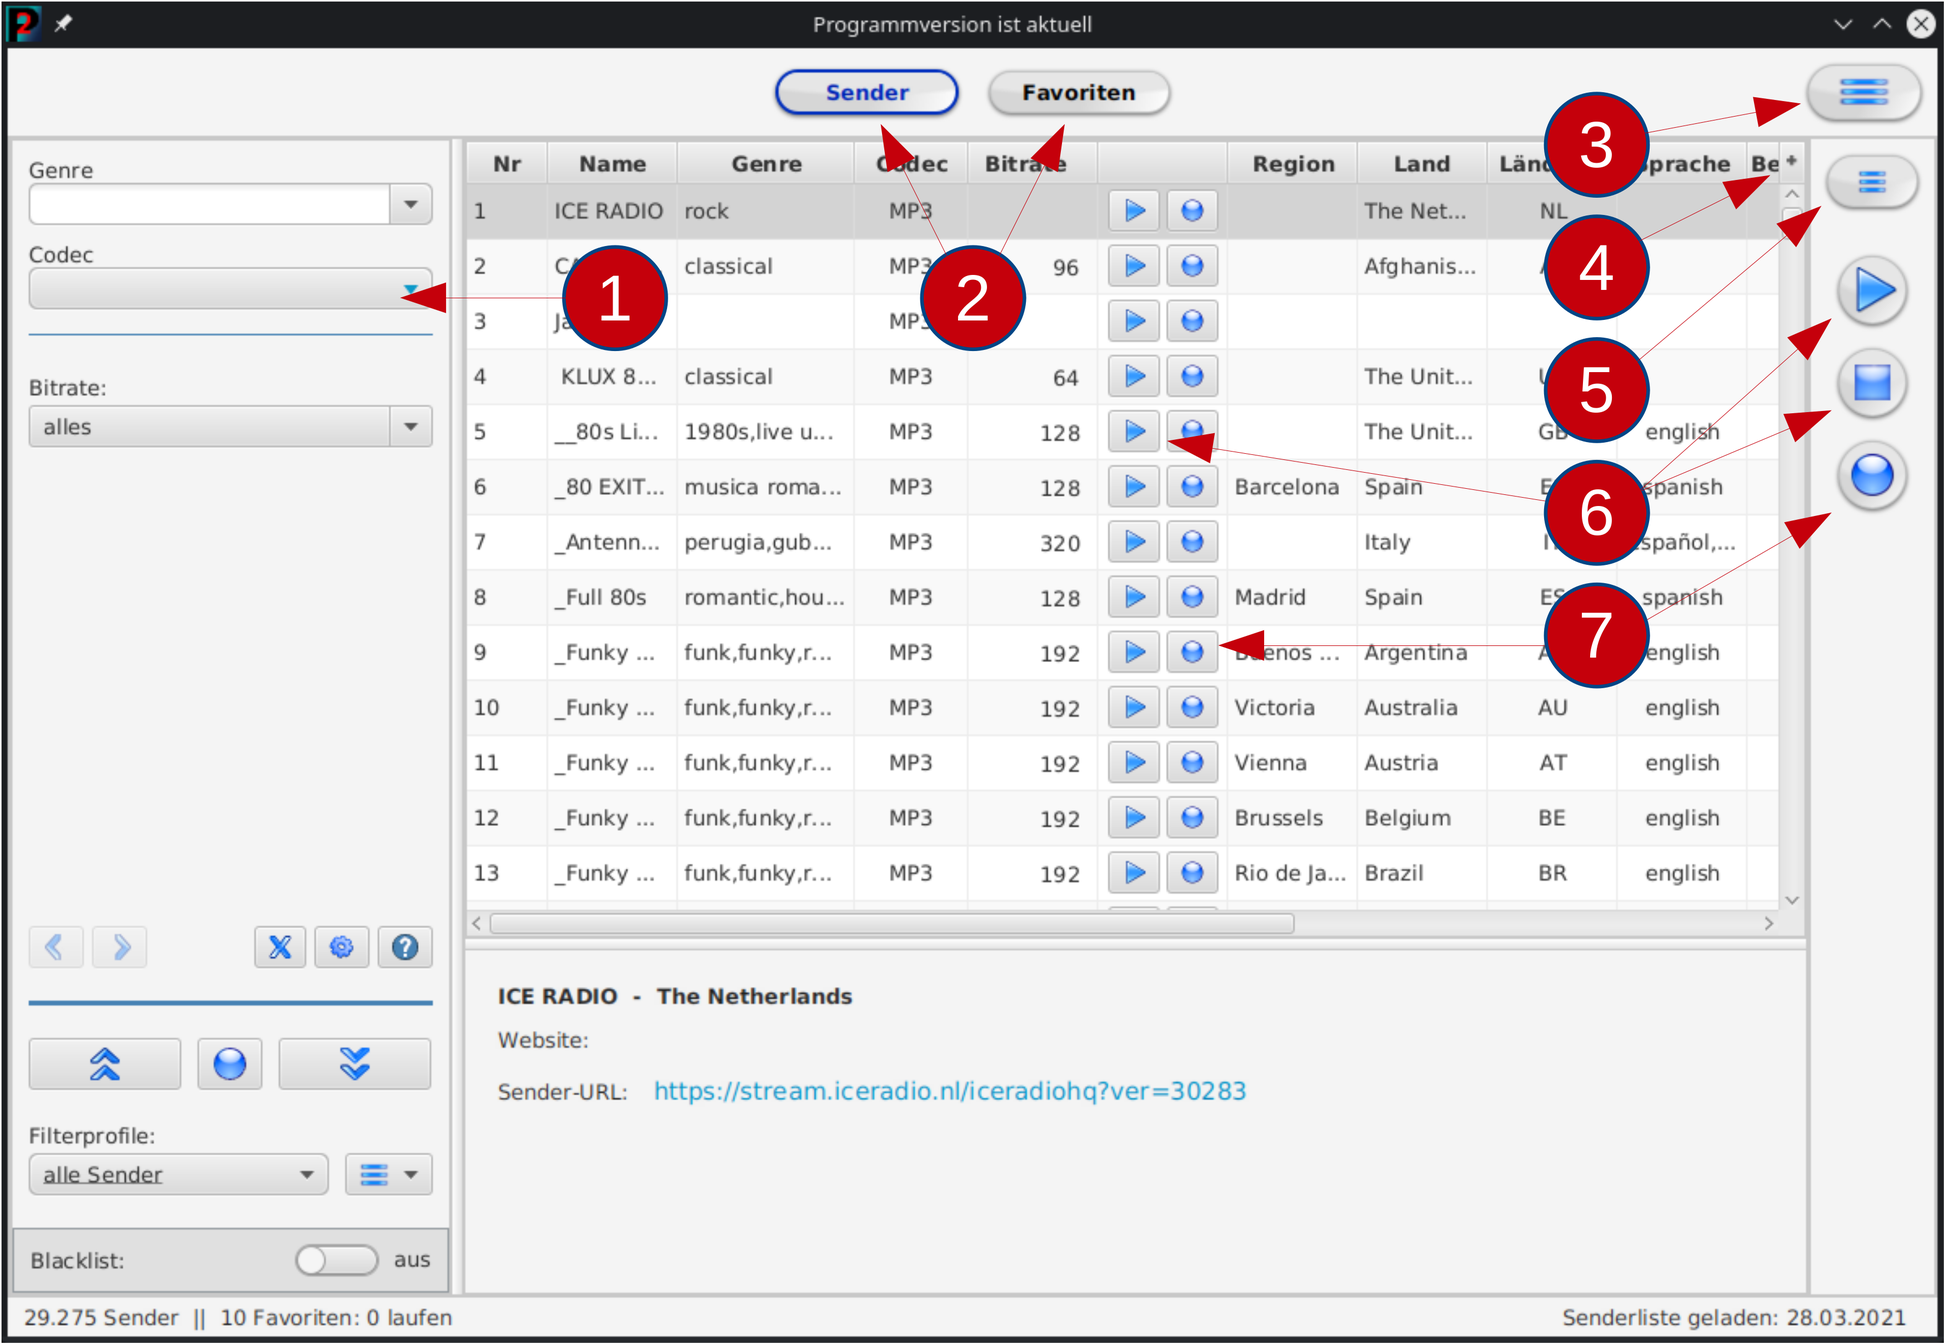
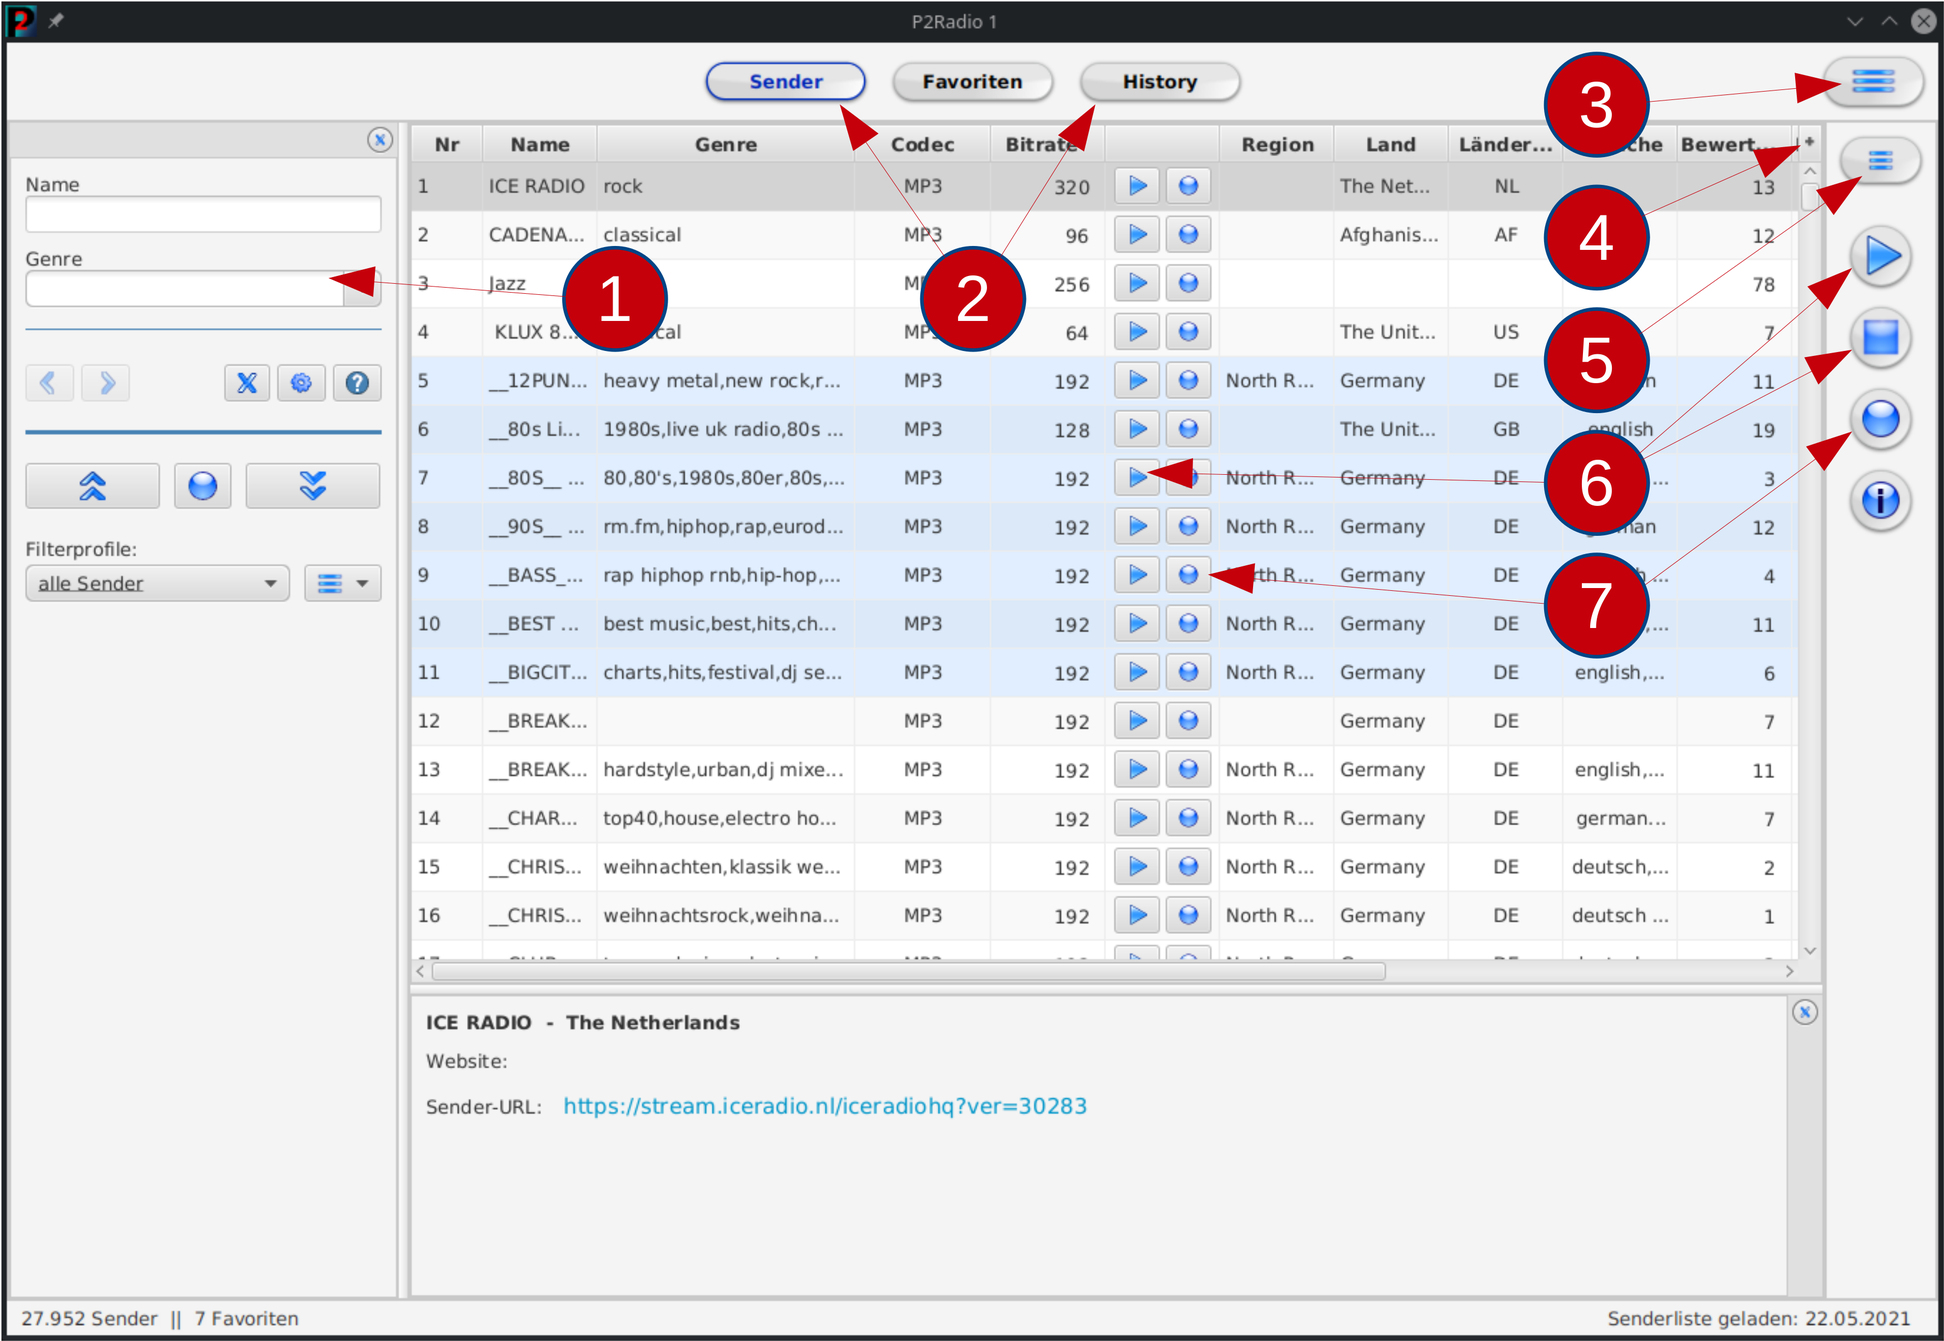
cleanUp

Changed region(s): [[0.0, 0.0, 1.0, 1.0], [0.0, 0.6832, 0.0311, 0.7143]]

diff --git a/src/main/java/de/p2tools/p2radio/gui/startDialog/StartDialogController.java b/src/main/java/de/p2tools/p2radio/gui/startDialog/StartDialogController.java
@@ -41,22 +41,25 @@ public class StartDialogController extends PDialogExtra {
     private Button btnOk, btnCancel;
     private Button btnPrev, btnNext;
     private Button btnStart1 = new Button(STR_START_1), btnStart2 = new Button(STR_START_2),
-            btnConfig = new Button(STR_CONFIG);
+            btnStart3 = new Button(STR_START_3), btnConfig = new Button(STR_CONFIG);
 
     private static final String STR_START_1 = "Infos";
     private static final String STR_START_2 = "Infos";
+    private static final String STR_START_3 = "Infos";
     private static final String STR_CONFIG = "Einstellungen";
 
-    private enum State {START_1, START_2, CONFIG}
+    private enum State {START_1, START_2, START_3, CONFIG}
 
     private State aktState = State.START_1;
 
     private TitledPane tStart1;
     private TitledPane tStart2;
+    private TitledPane tStart3;
     private TitledPane tConfig;
 
     private StartPane startPane1;
     private StartPane startPane2;
+    private StartPane startPane3;
     private ConfigPane configPane;
 
     private final ProgData progData;
@@ -81,6 +84,7 @@ public class StartDialogController extends PDialogExtra {
         this.ok = ok;
         startPane1.close();
         startPane2.close();
+        startPane3.close();
         configPane.close();
         super.close();
     }
@@ -91,7 +95,7 @@ public class StartDialogController extends PDialogExtra {
 
     private void initTopButton() {
         getvBoxCont().getChildren().add(tilePane);
-        tilePane.getChildren().addAll(btnStart1, btnStart2, btnConfig);
+        tilePane.getChildren().addAll(btnStart1, btnStart2, btnStart3, btnConfig);
         tilePane.setAlignment(Pos.CENTER);
         tilePane.setPadding(new Insets(10, 10, 20, 10));
         tilePane.setHgap(10);
@@ -99,6 +103,7 @@ public class StartDialogController extends PDialogExtra {
 
         setButton(btnStart1, State.START_1);
         setButton(btnStart2, State.START_2);
+        setButton(btnStart3, State.START_3);
         setButton(btnConfig, State.CONFIG);
     }
 
@@ -128,13 +133,19 @@ public class StartDialogController extends PDialogExtra {
         tStart2.setMaxHeight(Double.MAX_VALUE);
         tStart2.setCollapsible(false);
 
+        //startPane 3
+        startPane3 = new StartPane(getStage());
+        tStart3 = startPane3.makeStart3();
+        tStart3.setMaxHeight(Double.MAX_VALUE);
+        tStart3.setCollapsible(false);
+
         //updatePane
         configPane = new ConfigPane(getStage());
         tConfig = configPane.makeStart();
         tConfig.setMaxHeight(Double.MAX_VALUE);
         tConfig.setCollapsible(false);
 
-        stackpane.getChildren().addAll(tStart1, tStart2, tConfig);
+        stackpane.getChildren().addAll(tStart1, tStart2, tStart3, tConfig);
     }
 
     private void initButton() {
@@ -154,6 +165,9 @@ public class StartDialogController extends PDialogExtra {
                     aktState = State.START_2;
                     break;
                 case START_2:
+                    aktState = State.START_3;
+                    break;
+                case START_3:
                     aktState = State.CONFIG;
                     break;
                 case CONFIG:
@@ -169,8 +183,11 @@ public class StartDialogController extends PDialogExtra {
                 case START_2:
                     aktState = State.START_1;
                     break;
-                case CONFIG:
+                case START_3:
                     aktState = State.START_2;
+                    break;
+                case CONFIG:
+                    aktState = State.START_3;
                     break;
             }
             selectActPane();
@@ -203,6 +220,12 @@ public class StartDialogController extends PDialogExtra {
                 tStart2.toFront();
                 setButtonStyle(btnStart2);
                 break;
+            case START_3:
+                btnPrev.setDisable(false);
+                btnNext.setDisable(false);
+                tStart3.toFront();
+                setButtonStyle(btnStart3);
+                break;
             case CONFIG:
                 btnPrev.setDisable(false);
                 btnNext.setDisable(true);
@@ -218,6 +241,7 @@ public class StartDialogController extends PDialogExtra {
     private void setButtonStyle(Button btnSel) {
         btnStart1.getStyleClass().retainAll("btnStartDialog");
         btnStart2.getStyleClass().retainAll("btnStartDialog");
+        btnStart3.getStyleClass().retainAll("btnStartDialog");
         btnConfig.getStyleClass().retainAll("btnStartDialog");
         btnSel.getStyleClass().add("btnStartDialogSel");
     }
@@ -225,6 +249,7 @@ public class StartDialogController extends PDialogExtra {
     private void initTooltip() {
         btnStart1.setTooltip(new Tooltip("Infos über das Programm"));
         btnStart2.setTooltip(new Tooltip("Infos über das Programm"));
+        btnStart3.setTooltip(new Tooltip("Infos über das Programm"));
         btnConfig.setTooltip(new Tooltip("Einstellungen des Programms?"));
 
         btnOk.setTooltip(new Tooltip("Programm mit den gewählten Einstellungen starten"));

diff --git a/src/main/java/de/p2tools/p2radio/gui/configDialog/ConfigPaneController.java b/src/main/java/de/p2tools/p2radio/gui/configDialog/ConfigPaneController.java
@@ -62,13 +62,11 @@ public class ConfigPaneController extends PAccordionPane {
     StringProperty propUrl = ProgConfig.SYSTEM_PROG_OPEN_URL;
     BooleanProperty propLog = ProgConfig.SYSTEM_LOG_ON;
     StringProperty propLogDir = ProgConfig.SYSTEM_LOG_DIR;
-    BooleanProperty propSizeSender = ProgConfig.SYSTEM_SMALL_ROW_TABLE_STATION;
-    BooleanProperty propSizeFavourite = ProgConfig.SYSTEM_SMALL_ROW_TABLE_FAVOURITE;
+    BooleanProperty propSizeSender = ProgConfig.SYSTEM_SMALL_ROW_TABLE;
     BooleanProperty propLoadStationList = ProgConfig.SYSTEM_LOAD_STATION_LIST_EVERY_DAYS;
     BooleanProperty propTray = ProgConfig.SYSTEM_TRAY;
 
-    private final PToggleSwitch tglSmallStation = new PToggleSwitch("In der Tabelle \"Sender\" nur kleine Button anzeigen:");
-    private final PToggleSwitch tglSmallFavourite = new PToggleSwitch("In der Tabelle \"Favoriten\" nur kleine Button anzeigen:");
+    private final PToggleSwitch tglSmallStation = new PToggleSwitch("In den Tabellen nur kleine Button anzeigen:");
     private final PToggleSwitch tglLoadStationList = new PToggleSwitch("Die Senderliste automatisch alle " +
             ProgConst.LOAD_STATION_LIST_EVERY_DAYS + " Tage aktualisieren");
     private final PToggleSwitch tglTray = new PToggleSwitch("Programm im System Tray anzeigen");
@@ -97,7 +95,6 @@ public class ConfigPaneController extends PAccordionPane {
         shortcutPane.close();
         stylePane.close();
         tglSmallStation.selectedProperty().unbindBidirectional(propSizeSender);
-        tglSmallFavourite.selectedProperty().unbindBidirectional(propSizeFavourite);
         tglTray.selectedProperty().unbindBidirectional(propTray);
         tglLoadStationList.selectedProperty().unbindBidirectional(propLoadStationList);
         txtUserAgent.textProperty().unbindBidirectional(ProgConfig.SYSTEM_USERAGENT);
@@ -134,7 +131,6 @@ public class ConfigPaneController extends PAccordionPane {
         result.add(tpConfig);
 
         tglSmallStation.selectedProperty().bindBidirectional(propSizeSender);
-        tglSmallFavourite.selectedProperty().bindBidirectional(propSizeFavourite);
         tglLoadStationList.selectedProperty().bindBidirectional(propLoadStationList);
         final Button btnHelpLoadStationList = PButton.helpButton(stage, "Liste der Sender aktualisieren",
                 HelpText.LOAD_STATION_LIST_EVERY_DAYS);
@@ -183,7 +179,6 @@ public class ConfigPaneController extends PAccordionPane {
         gridPane.add(new Label(" "), 0, ++row);
         gridPane.add(tglSmallStation, 0, ++row, 2, 1);
         gridPane.add(btnHelpSize, 2, row);
-        gridPane.add(tglSmallFavourite, 0, ++row, 2, 1);
 
         tglTray.selectedProperty().bindBidirectional(propTray);
         final Button btnHelpTray = PButton.helpButton(stage, "Programm im System Tray anzeigen",

diff --git a/src/main/java/de/p2tools/p2radio/gui/startDialog/StartPane.java b/src/main/java/de/p2tools/p2radio/gui/startDialog/StartPane.java
@@ -51,8 +51,8 @@ public class StartPane {
                 "Sender gefiltert werden." +
 
                 P2LibConst.LINE_SEPARATORx2 +
-                "2) Die Ansicht der Sender und der Favoriten" + P2LibConst.LINE_SEPARATOR +
-                "wird hier umgeschaltet." +
+                "2) Die Ansicht der Sender, Favoriten und" + P2LibConst.LINE_SEPARATOR +
+                "der History wird hier umgeschaltet." +
 
                 P2LibConst.LINE_SEPARATORx2 +
                 "3) In dem Menü befinden sich" + P2LibConst.LINE_SEPARATOR +
@@ -109,7 +109,40 @@ public class StartPane {
                 "geändert oder gelöscht (\"X\") werden.");
         hBox.getChildren().add(text);
 
-        TitledPane tpConfig = new TitledPane("Infos zum Sender-Filter", hBox);
+        TitledPane tpConfig = new TitledPane("Infos zu den Favoriten", hBox);
+        return tpConfig;
+    }
+
+    public TitledPane makeStart3() {
+
+        HBox hBox = new HBox();
+        hBox.setSpacing(25);
+        hBox.setPadding(new Insets(20));
+
+        ImageView iv = new ImageView();
+        Image im = getHelpScreen3();
+        iv.setSmooth(true);
+        iv.setImage(im);
+
+        hBox.getChildren().addAll(iv);
+
+        Label text = new Label("1) Damit können die Sender in" + P2LibConst.LINE_SEPARATOR +
+                "der History gefiltert werden." +
+                P2LibConst.LINE_SEPARATORx2 +
+
+                "2) In dem Menü kann die History" + P2LibConst.LINE_SEPARATOR +
+                "bearbeitet werden." +
+                P2LibConst.LINE_SEPARATORx2 +
+
+                "3) Damit werden die Sender" + P2LibConst.LINE_SEPARATOR +
+                "gestartet und gestoppt" +
+                P2LibConst.LINE_SEPARATORx2 +
+
+                "4) Hier können Sender aus der History" + P2LibConst.LINE_SEPARATOR +
+                "gelöscht werden.");
+        hBox.getChildren().add(text);
+
+        TitledPane tpConfig = new TitledPane("Infos zur History", hBox);
         return tpConfig;
     }
 
@@ -120,6 +153,11 @@ public class StartPane {
 
     private javafx.scene.image.Image getHelpScreen2() {
         final String path = "/de/p2tools/p2radio/res/p2Radio-startpage-2.png";
+        return new Image(path, 600, 600, true, true);
+    }
+
+    private javafx.scene.image.Image getHelpScreen3() {
+        final String path = "/de/p2tools/p2radio/res/p2Radio-startpage-3.png";
         return new Image(path, 600, 600, true, true);
     }
 }

diff --git a/src/main/java/de/p2tools/p2radio/controller/data/lastPlayed/LastPlayedList.java b/src/main/java/de/p2tools/p2radio/controller/data/lastPlayed/LastPlayedList.java
@@ -18,11 +18,10 @@ package de.p2tools.p2radio.controller.data.lastPlayed;
 
 import de.p2tools.p2Lib.configFile.pData.PDataList;
 import de.p2tools.p2Lib.tools.duration.PDuration;
+import de.p2tools.p2radio.controller.config.ProgConst;
 import de.p2tools.p2radio.controller.config.ProgData;
 import de.p2tools.p2radio.controller.data.favourite.Favourite;
 import de.p2tools.p2radio.controller.data.station.Station;
-import javafx.beans.property.BooleanProperty;
-import javafx.beans.property.SimpleBooleanProperty;
 import javafx.beans.property.SimpleListProperty;
 import javafx.collections.FXCollections;
 
@@ -37,8 +36,6 @@ public class LastPlayedList extends SimpleListProperty<LastPlayed> implements PD
     private final ProgData progData;
     private final LastPlayedStartsFactory favouriteStartsFactory;
     private int no = 0;
-
-    private BooleanProperty favouriteChanged = new SimpleBooleanProperty(true);
 
     public LastPlayedList(ProgData progData) {
         super(FXCollections.observableArrayList());
@@ -127,6 +124,10 @@ public class LastPlayedList extends SimpleListProperty<LastPlayed> implements PD
     private void reCount() {
         for (int i = 0; i < this.size(); ++i) {
             this.get(i).setNo(i + 1);
+        }
+        while (this.size() > ProgConst.MAX_LAST_PLAYED_LIST_SIZE) {
+            this.remove(this.size() - 1);
+            System.out.println("remove");
         }
     }
 

diff --git a/src/main/java/de/p2tools/p2radio/gui/tools/table/TableLastPlayed.java b/src/main/java/de/p2tools/p2radio/gui/tools/table/TableLastPlayed.java
@@ -40,20 +40,18 @@ import javafx.util.Callback;
 public class TableLastPlayed {
 
     private final ProgData progData;
-    private final BooleanProperty geoMelden;
     private final BooleanProperty small;
 
     public TableLastPlayed(ProgData progData) {
         this.progData = progData;
-        geoMelden = ProgConfig.SYSTEM_MARK_GEO;
-        small = ProgConfig.SYSTEM_SMALL_ROW_TABLE_FAVOURITE;
+        small = ProgConfig.SYSTEM_SMALL_ROW_TABLE;
     }
 
     public TableColumn[] initLastPlayedColumn(TableView table) {
         table.getColumns().clear();
 
         final GermanStringIntSorter sorter = GermanStringIntSorter.getInstance();
-        ProgConfig.SYSTEM_SMALL_ROW_TABLE_FAVOURITE.addListener((observableValue, s, t1) -> table.refresh());
+        ProgConfig.SYSTEM_SMALL_ROW_TABLE.addListener((observableValue, s, t1) -> table.refresh());
         ProgColorList.STATION_RUN.colorProperty().addListener((a, b, c) -> table.refresh());
         ProgColorList.STATION_ERROR.colorProperty().addListener((a, b, c) -> table.refresh());
 

diff --git a/src/main/java/de/p2tools/p2radio/controller/config/ProgConfig.java b/src/main/java/de/p2tools/p2radio/controller/config/ProgConfig.java
@@ -69,8 +69,7 @@ public class ProgConfig extends PDataProgConfig {
     public static StringProperty SYSTEM_LOG_DIR = addStr("system-log-dir", "");
     public static BooleanProperty SYSTEM_LOG_ON = addBool("system-log-on", Boolean.TRUE);
     public static BooleanProperty SYSTEM_LOAD_STATION_LIST_EVERY_DAYS = addBool("system-load-station-list-every-days", Boolean.TRUE);
-    public static BooleanProperty SYSTEM_SMALL_ROW_TABLE_STATION = addBool("system-small-row-table-station", Boolean.FALSE);
-    public static BooleanProperty SYSTEM_SMALL_ROW_TABLE_FAVOURITE = addBool("system-small-row-table-favourite", Boolean.FALSE);
+    public static BooleanProperty SYSTEM_SMALL_ROW_TABLE = addBool("system-small-row-table", Boolean.FALSE);
     public static BooleanProperty SYSTEM_DARK_THEME = addBool("system-dark-theme", Boolean.FALSE);
     public static BooleanProperty SYSTEM_THEME_CHANGED = addBool("system-theme-changed");
     public static IntegerProperty SYSTEM_LAST_TAB_STATION = addInt("system-last-tab-station", 0);

diff --git a/src/main/java/de/p2tools/p2radio/gui/tools/table/TableStation.java b/src/main/java/de/p2tools/p2radio/gui/tools/table/TableStation.java
@@ -44,14 +44,14 @@ public class TableStation {
     public TableStation(ProgData progData) {
         this.progData = progData;
         geoMelden = ProgConfig.SYSTEM_MARK_GEO;
-        small = ProgConfig.SYSTEM_SMALL_ROW_TABLE_STATION;
+        small = ProgConfig.SYSTEM_SMALL_ROW_TABLE;
     }
 
     public TableColumn[] initStationColumn(TableView table) {
         table.getColumns().clear();
 
         // bei Farbänderung der Schriftfarbe klappt es damit besser: Table.refresh_table(table)
-        ProgConfig.SYSTEM_SMALL_ROW_TABLE_STATION.addListener((observableValue, s, t1) -> table.refresh());
+        ProgConfig.SYSTEM_SMALL_ROW_TABLE.addListener((observableValue, s, t1) -> table.refresh());
         ProgColorList.STATION_NEW.colorProperty().addListener((a, b, c) -> table.refresh());
         ProgColorList.STATION_RUN.colorProperty().addListener((a, b, c) -> table.refresh());
         ProgColorList.STATION_ERROR.colorProperty().addListener((a, b, c) -> table.refresh());

diff --git a/src/main/java/de/p2tools/p2radio/gui/tools/table/TableFavourite.java b/src/main/java/de/p2tools/p2radio/gui/tools/table/TableFavourite.java
@@ -46,14 +46,14 @@ public class TableFavourite {
     public TableFavourite(ProgData progData) {
         this.progData = progData;
         geoMelden = ProgConfig.SYSTEM_MARK_GEO;
-        small = ProgConfig.SYSTEM_SMALL_ROW_TABLE_FAVOURITE;
+        small = ProgConfig.SYSTEM_SMALL_ROW_TABLE;
     }
 
     public TableColumn[] initFavouriteColumn(TableView table) {
         table.getColumns().clear();
 
         final GermanStringIntSorter sorter = GermanStringIntSorter.getInstance();
-        ProgConfig.SYSTEM_SMALL_ROW_TABLE_FAVOURITE.addListener((observableValue, s, t1) -> table.refresh());
+        ProgConfig.SYSTEM_SMALL_ROW_TABLE.addListener((observableValue, s, t1) -> table.refresh());
         ProgColorList.STATION_RUN.colorProperty().addListener((a, b, c) -> table.refresh());
         ProgColorList.STATION_ERROR.colorProperty().addListener((a, b, c) -> table.refresh());
 

diff --git a/src/main/java/de/p2tools/p2radio/controller/config/ProgConst.java b/src/main/java/de/p2tools/p2radio/controller/config/ProgConst.java
@@ -24,7 +24,7 @@ public class ProgConst {
     public static final int SYSTEM_UPDATE_SATE = 0;
     public static final int LOAD_STATION_LIST_EVERY_DAYS = 7;
     public static final int START_COUNTER_MIN_TIME = 30;
-
+    public static final int MAX_LAST_PLAYED_LIST_SIZE = 50;
 
     // settings file
     public static final String CONFIG_FILE = "p2radio.xml";
@@ -66,10 +66,8 @@ public class ProgConst {
     public static final String ADRESSE_WEBSITE_VLC = "http://www.videolan.org";
 
     public static final double GUI_FILTER_DIVIDER_LOCATION = 0.3;
-
     public static final double GUI_STATION_DIVIDER_LOCATION = 0.7;
     public static final double GUI_FAVOURITE_DIVIDER_LOCATION = 0.7;
-
     public static final double CONFIG_DIALOG_SET_DIVIDER = 0.2;
 
     public static final int MIN_TABLE_HEIGHT = 200;

diff --git a/src/main/java/de/p2tools/p2radio/gui/tools/HelpText.java b/src/main/java/de/p2tools/p2radio/gui/tools/HelpText.java
@@ -141,7 +141,7 @@ public class HelpText {
     public static final String LOAD_STATION_LIST_EVERY_DAYS = "Ist die Liste der Sender älter als " + ProgConst.LOAD_STATION_LIST_EVERY_DAYS +
             " Tage, wird automatisch eine neue Liste geladen.";
 
-    public static final String SMALL_BUTTON = "In der Tabelle Sender und Favoriten können auch " +
+    public static final String SMALL_BUTTON = "In der Tabelle Sender Favoriten und History können auch " +
             "kleine Buttons angezeigt werden. Die Zeilenhöhe wird dadurch kleiner.";
 
     public static final String TRAY = "Im System Tray wird für das Programm ein Symbol angezeigt. Damit kann das " +
